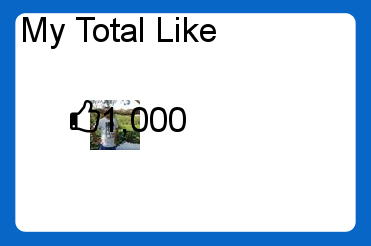
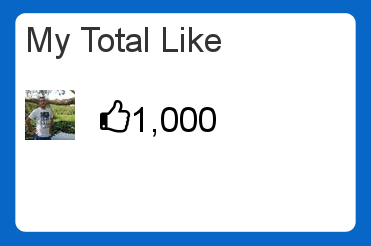
initial_version_for_deploy

Changed region(s): [[0.0593, 0.3415, 0.593, 0.626], [0.0593, 0.0569, 0.593, 0.2561]]

diff --git a/login/templates/user.html b/login/templates/user.html
@@ -28,12 +28,16 @@
 
     <script id="entry-likes-number" type="text/x-handlebars-template">
         <div class="col-lg-6 col-md-6 col-sm-6 col-xs-12">
-            <div class="panel panel-box">
+            <div class="panel panel-box single-stat">
                 <div class="panel-header">{% templatetag openvariable %}title{% templatetag closevariable %}</div>
                 <div class="center-panel">
 
                 <h2><i class="fa {% templatetag openvariable %}icon{% templatetag closevariable %}">{% templatetag openvariable %}value{% templatetag closevariable %}</i></h2></div>
                 <div class="bottom-panel">
+                    <div data-url-share="http://local.ynet.co.il:8080/static/images/top_ten.png" class="sharing_button btn btn-sm btn-block btn-hmluw">
+                        <i class="fa fa-facebook"></i>
+                        Share
+                    </div>
                 </div>
             </div>
         </div>
@@ -65,6 +69,10 @@
                     </ul>
                 </div>
                 <div class="bottom-panel">
+                    <div data-url-share="http://local.ynet.co.il:8080/static/images/top_ten.png" class="sharing_button btn btn-sm btn-block btn-hmluw">
+                        <i class="fa fa-facebook"></i>
+                        Share
+                    </div>
                 </div>
             </div>
         </div>

diff --git a/static/css/style.css b/static/css/style.css
@@ -197,6 +197,7 @@ body {
 .panel-box .bottom-panel {
 	padding:7px;
 	 text-align: left;
+	 clear: both;
 }
 .center-panel ul {
 	overflow:auto;
@@ -215,6 +216,11 @@ body {
 }
 .panel-box .center-panel li{
 	list-style: none;
+}
+
+.panel-box.single-stat .center-panel .sharing_button{
+	margin:inherit;
+	float:none;
 }
 
 .panel-box.likes-list .center-panel .comment .profile{

diff --git a/static/js/scripts.js b/static/js/scripts.js
@@ -21,7 +21,7 @@
                 var url = el.attr('data-url-share');
                 if (typeof url != 'undefined') {
                     FB.ui({
-                          method: 'feed',
+                          method: 'share',
                           description: 'asdsadsa',
                           caption:'asasdasd',
                           href: url,

diff --git a/image_maker/api.py b/image_maker/api.py
@@ -8,7 +8,11 @@ import os
 
 
 class ImagesMaker(object):
-
+    @classmethod
+    def create_top_ten_picture(cls, top_likers):
+        top_im = Image.open(settings.IMAGES['top_ten'])
+        for liker in top_likers:
+            l
     @classmethod
     def create_small_stat_image(cls, info):
         """
@@ -19,24 +23,56 @@ class ImagesMaker(object):
                     'image_profile' -> Image Profile Of User
                     'font_icon' -> Icon To Write. like : unichr(0x087d)
                     'value' -> Stats Number
+                    'file_name' -> file name
                 }
         """
         font_dejavu = ImageFont.truetype(settings.FONTS['dejavu'], 35)
         font_awsome = ImageFont.truetype(settings.FONTS['awesome'], 35)
+
         back_im = Image.open(settings.IMAGES['small'])
 
         file_ = cStringIO.StringIO(
             urllib.urlopen(info['image_profile']).read())
-        back_im.paste(Image.open(file_), (90, 100))
-        draw = ImageDraw.Draw(back_im)  
+        back_im.paste(Image.open(file_), (25, 90))
 
-        draw.text((20, 10), info['title'], (0, 0, 0), font=font_dejavu)
+        draw = ImageDraw.Draw(back_im)
 
-        draw.text((70, 100), info['font_icon'], (0, 0, 0), font=font_awsome)
+        draw.text((25, 20), info['title'], (51, 51, 51), font=font_dejavu)
+        draw.text((100, 100), info['font_icon'], (0, 0, 0), font=font_awsome)
         size = draw.textsize(info['font_icon'], font=font_awsome)
         draw.text(
-            (size[0] + 70, 100), info['value'], (0, 0, 0), font=font_dejavu)
+            (size[0] + 100, 100), info['value'], (0, 0, 0), font=font_dejavu)
 
         draw = ImageDraw.Draw(back_im)
         back_im.save(
-            os.path.join(settings.STATICFILES_DIRS[0], 'images', '1.png'))
+            os.path.join(settings.STATICFILES_DIRS[0], 'images', '{}.png'.format(info['file_name'])))
+
+    @classmethod
+    def create_stats_images(cls, user):
+        """
+            get User object and 
+            creating all photos for this user
+        """
+        if 'total' in user['stats']:
+            cls.create_small_stat_image({
+                'font_icon': unichr(0xF087),
+                'title': 'My Total Like',
+                'value': user['stats']['total'],
+                'image_profile': user['stats']['profile_photo']['data']['url'],
+                'file_name': '1'
+            })
+        if 'photos' in user['stats']:
+            cls.create_small_stat_image({
+                'font_icon': unichr(0xF087),
+                'title': 'My Total Like',
+                'value': user['stats']['total'],
+                'image_profile': user['stats']['profile_photo']['data']['url'],
+                'file_name': '1'
+            })
+        if 'videos' in user['stats']:
+            pass
+        if 'posts' in user['stats']:
+            pass
+        if 'top_likers' in user['stats']:
+            pass
+

diff --git a/login/views.py b/login/views.py
@@ -55,9 +55,20 @@ def make_image(request):
         'font_icon': unichr(0xF087),
         'title': 'My Total Like',
         'value': '1,000',
-        'image_profile': 'https://fbcdn-profile-a.akamaihd.net/hprofile-ak-xpf1/v/t1.0-1/c113.33.414.414/s50x50/5353_10200578370755373_1977075288_n.jpg?oh=6ed8cec02057e474c1d2139490a39a54&oe=56487D9D&__gda__=1451351050_445fccab167c52b614d93584eb8e601d'
+        'image_profile': 'https://fbcdn-profile-a.akamaihd.net/hprofile-ak-xpf1/v/t1.0-1/c113.33.414.414/s50x50/5353_10200578370755373_1977075288_n.jpg?oh=6ed8cec02057e474c1d2139490a39a54&oe=56487D9D&__gda__=1451351050_445fccab167c52b614d93584eb8e601d',
+        'file_name' : '1'
+
     })
-    return HttpResponse("<img src='/static/images/1.png'>")
+
+    ImagesMaker.create_small_stat_image({
+        'font_icon': unichr(0xF031),
+        'title': 'Total Likes On Posts',
+        'value': '1,000',
+        'image_profile': 'https://fbcdn-profile-a.akamaihd.net/hprofile-ak-xpf1/v/t1.0-1/c113.33.414.414/s50x50/5353_10200578370755373_1977075288_n.jpg?oh=6ed8cec02057e474c1d2139490a39a54&oe=56487D9D&__gda__=1451351050_445fccab167c52b614d93584eb8e601d',
+        'file_name' : '2'
+
+    })
+    return HttpResponse("<img src='/static/images/1.png'><img src='/static/images/2.png'>")
 
 
 def sort_elements_user(request, fb_id):

diff --git a/tasks.py b/tasks.py
@@ -86,6 +86,8 @@ def fetch_all(fb_id):
         user.last_finish_fetch = datetime.now()
         user.save()
 
+        tumbnails_creator.apply_async([fb_id])
+
 
 @app.task
 def aggregate_likes(fb_id):
@@ -101,3 +103,22 @@ def sotring(fb_id):
         fb_id_list = [fb_id]
     users = Users.objects.filter(fb_id=fb_id)
     users.sort_elements()
+
+
+@app.task
+def tumbnails_creator(fb_id):
+    """
+        get user data from DB
+        making all nesscery images for facebook sharing
+    """
+    user = Users.objects.filter(fb_id=fb_id).\
+            only('name', 'profile_photo').\
+            first()
+    if user:
+        user = user.to_mongo()
+        likes_stats = Likes_Stats.objects.filter(value__fb_id=fb_id).\
+            exclude('id', 'value__sorted_videos', 'value__sorted_posts', 'value__sorted_photos').\
+            fields(slice__value__top_likers=10).\
+            first()
+        if likes_stats:
+            user['stats'] = likes_stats.to_mongo()['value']

diff --git a/settings/dev.py b/settings/dev.py
@@ -32,7 +32,7 @@ DATABASE_MONGO = {
 
 IMAGES = {
     'small': os.path.join(PROJECT_ROOT, 'static/images/small.png'),
-    'big': '/static/images/big.png'
+    'top_ten': os.path.join(PROJECT_ROOT, 'static/images/top_ten.png'),
 }
 FONTS = {
     'awesome': os.path.join(PROJECT_ROOT, 'static/css/assets/fonts/fontawesome-webfont.ttf'),
